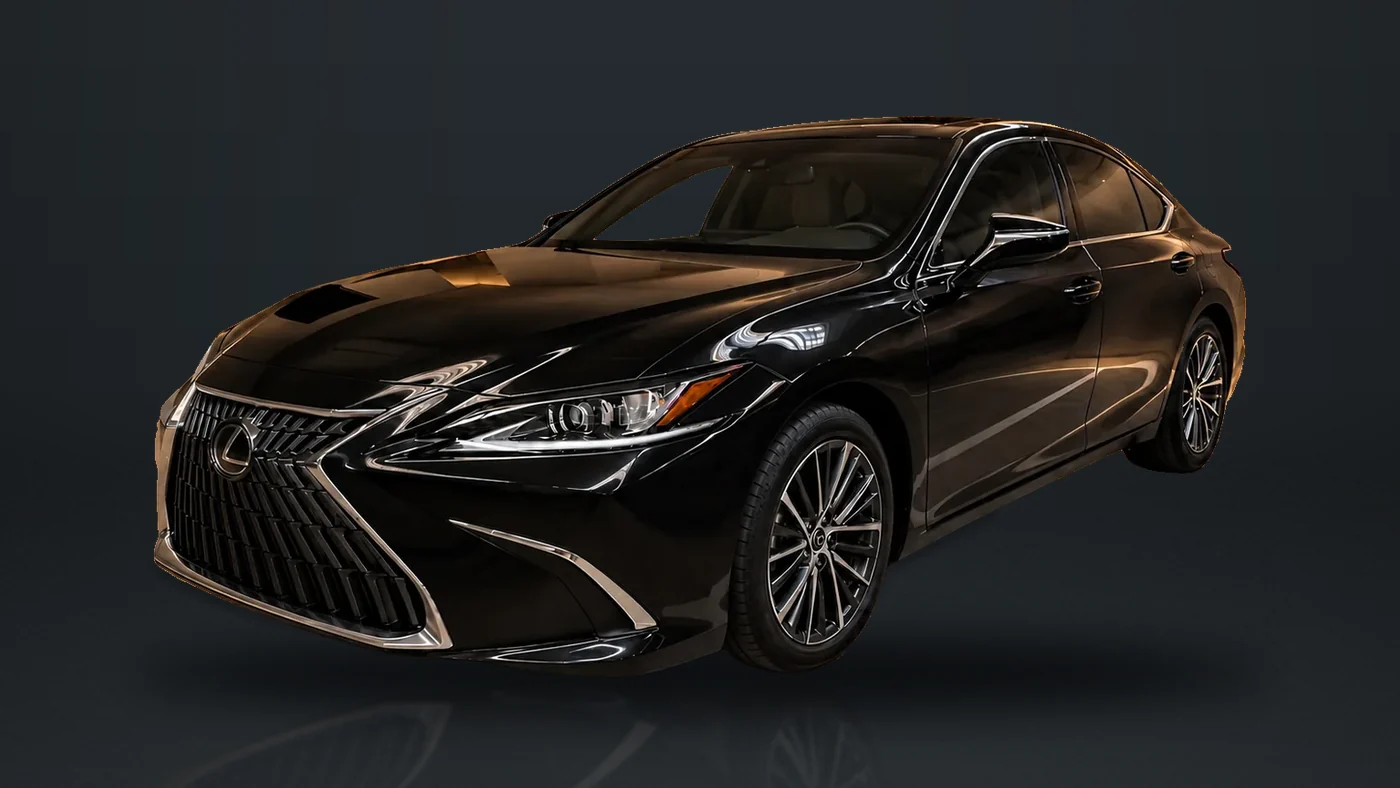
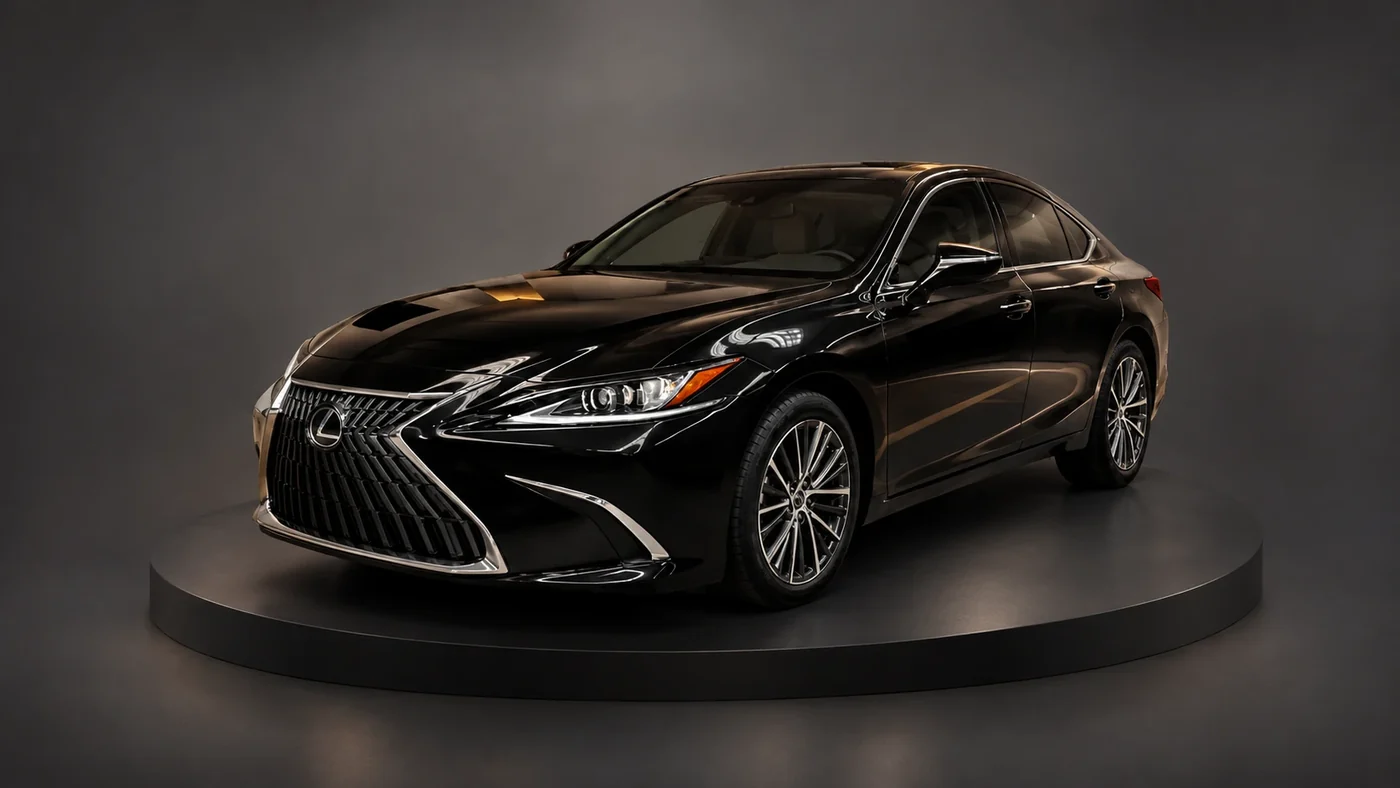
Categorías: fotos de estudio del dueño (Escalade, Lexus, Captiva, Nissan)
Las cuatro fotos nuevas con plataforma de estudio en /flota (1400×788) y
también en las tarjetas del paso 2 del cotizador, que ahora usan las mismas
imágenes 16:9 con el texto debajo de la foto. Originales en
design/fotos-estudio.

diff --git a/app/_components/HomeClient.tsx b/app/_components/HomeClient.tsx
@@ -156,10 +156,12 @@ function attachAutocomplete(
 /** Fotos verticales (4:5) para las tarjetas del cotizador: la misma unidad
  *  que la flota, pero encuadrada para una tarjeta alta (17 oct 2026). */
 const vehicleImages: Record<string, string> = {
-  sedan: "/cotizador/sedan.webp",
-  executive: "/cotizador/executive.webp",
-  minivan: "/cotizador/minivan.webp",
-  suv: "/cotizador/high-suv.webp",
+  // Desde nov 2026 son las mismas fotos de estudio del catálogo (16:9), para
+  // que la categoría se vea igual en la portada y al elegirla.
+  sedan: "/flota/sedan.webp",
+  executive: "/flota/executive.webp",
+  minivan: "/flota/minivan.webp",
+  suv: "/flota/high-suv.webp",
 };
 
 /** Las horizontales de la flota, para la miniatura del paso de pago. */
@@ -724,13 +726,13 @@ const styles = `
 
   /* Paso 2: mismas proporciones para todas; sólo la elegida con línea dorada. */
   .er-vehicles { display:grid; grid-template-columns:repeat(2, minmax(0,1fr)); gap:12px; margin-bottom:22px; }
-  .er-vehicle { position:relative; border-radius:14px; cursor:pointer; text-align:left; overflow:hidden; border:1px solid var(--line); min-height:330px; background:#24292D; transition:border-color 0.18s var(--ease), transform 0.18s var(--ease); }
+  .er-vehicle { position:relative; border-radius:14px; cursor:pointer; text-align:left; overflow:hidden; border:1px solid var(--line); background:var(--card); transition:border-color 0.18s var(--ease), transform 0.18s var(--ease); }
   .er-vehicle:hover { border-color:#5A636B; }
   .er-vehicle.selected { border-color:var(--gold); box-shadow:inset 0 0 0 1px var(--gold); }
   .er-vehicle.blocked { opacity:0.4; cursor:not-allowed; }
-  .er-vehicle-bg { position:absolute; inset:0 0 auto 0; height:52%; background-size:cover; background-position:center 30%; }
-  .er-vehicle-overlay { position:absolute; inset:0; background:linear-gradient(to top, var(--card) 0%, var(--card) 46%, rgba(25,33,39,0) 56%); }
-  .er-vehicle-content { position:relative; z-index:1; padding:16px; display:flex; flex-direction:column; justify-content:flex-end; min-height:330px; }
+  .er-vehicle-bg { position:absolute; inset:0 0 auto 0; aspect-ratio:16 / 9; background-size:cover; background-position:center; }
+  .er-vehicle-overlay { display:none; }
+  .er-vehicle-content { position:relative; z-index:1; padding:calc(56.25% + 14px) 16px 16px; display:flex; flex-direction:column; justify-content:flex-start; }
   .er-vehicle-name { font-family:var(--serif); font-size:24px; font-weight:500; color:var(--tx); margin-bottom:2px; }
   .er-vehicle-tag { font-size:11.5px; color:var(--tx2); letter-spacing:0.04em; margin-bottom:6px; }
   .er-vehicle-cap { font-size:12.5px; color:var(--tx2); margin-bottom:8px; }
